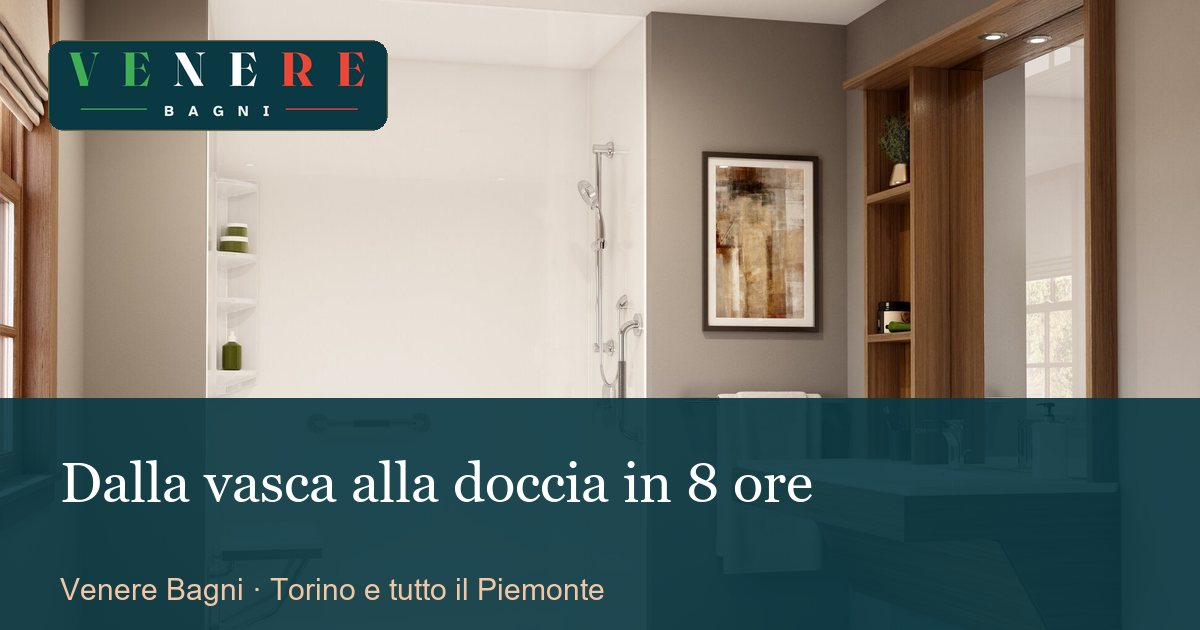
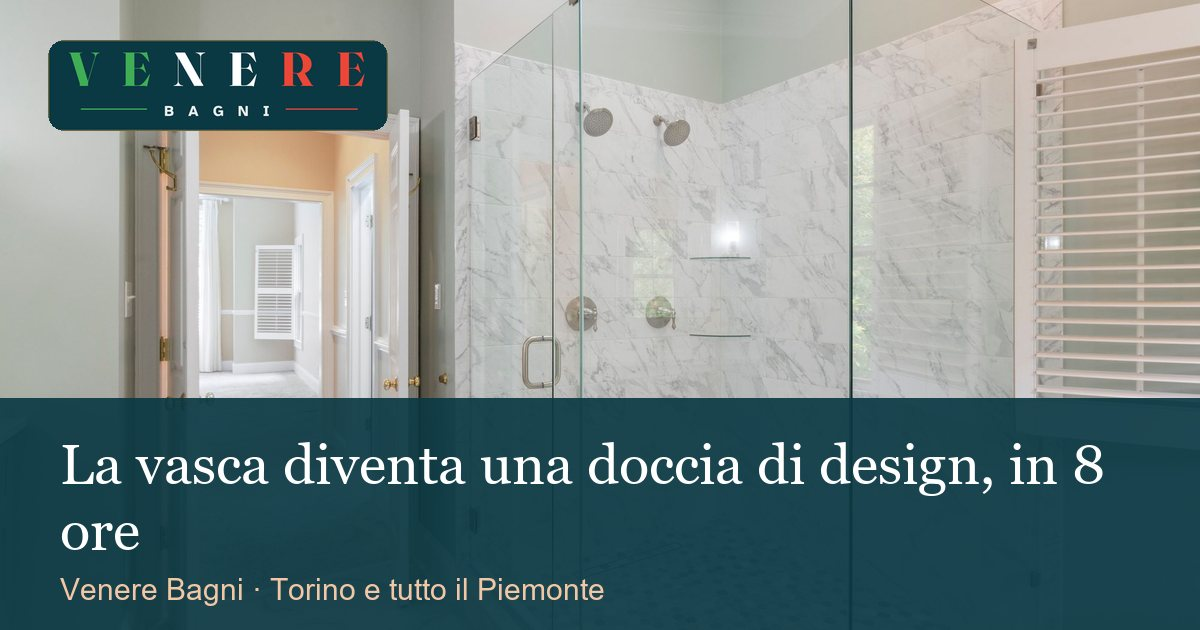
Reposition from safety to bathroom design: new hero and copy, Stile e finiture section with placeholder photos, form asks style instead of who, finishes FAQ group, province intros rebalanced; safety kept on its own pages

diff --git a/src/data/zone-pages.ts b/src/data/zone-pages.ts
@@ -40,7 +40,7 @@ export const zonePages: ZonePage[] = [
     lead: 'Lavoriamo in città e in tutta la provincia. Veniamo a misurare il bagno senza costi, ti lasciamo il prezzo scritto e poi, in 8 ore di lavoro, passi dalla vasca alla doccia finita.',
     introTitle: 'Il bagno a Torino',
     intro: [
-      'A Torino molti appartamenti sono in condomini degli anni ’60 e ’70, dove la vasca misura spesso circa 170 cm ed è l’unico posto per lavarsi. Con l’età scavalcarla diventa difficile. Se al suo posto mettiamo una doccia nello stesso spazio, il resto del bagno non va rifatto.',
+      'A Torino molti appartamenti sono in condomini degli anni ’60 e ’70, dove la vasca misura spesso circa 170 cm ed è l’unico posto per lavarsi. Spesso il bagno è ancora quello originale, con le piastrelle dell’epoca. Se al posto della vasca mettiamo una doccia con pareti in gres nuovo, il bagno cambia faccia senza rifarlo tutto.',
       'Lavoriamo anche nelle case singole e nelle villette dell’area metropolitana, allo stesso modo: il piatto doccia va dove c’era la vasca.',
     ],
     realData: '[SERVE DATO REALE: indirizzo della sede e distanza dalla città, se rilevante]',
@@ -80,7 +80,7 @@ export const zonePages: ZonePage[] = [
     intro: [
       // tuttitalia.it/piemonte/provincia-di-cuneo/ : 6.894,82 km², the largest province of Piemonte.
       'Quella di Cuneo è la provincia più estesa del Piemonte, quasi 6.900 km² tra le valli alpine, la pianura di Fossano e Savigliano e le colline di Langhe e Roero. Fuori dai centri più grandi ci sono tante case singole, bifamiliari e cascine. Per noi il lavoro cambia poco: togliamo la vasca e nello stesso spazio montiamo una doccia comoda, senza rifare il bagno.',
-      'Se cerchi una vasca con sportello o una doccia a filo pavimento per un genitore anziano e abiti lontano, al sopralluogo gratuito puoi collegarti per telefono.',
+      'Nelle case di campagna i bagni sono spesso grandi: c’è spazio per una doccia walk-in con vetro fisso, o per una vasca con sportello se la vasca la vuoi tenere.',
     ],
     realData: '[SERVE DATO REALE: come serviamo Cuneo, da quale sede, tempi di trasferta]',
     facts: [
@@ -227,7 +227,7 @@ export const zonePages: ZonePage[] = [
     introTitle: 'Il bagno nel Biellese',
     intro: [
       // [ISTAT] BI 51.066 / 168.328 = 30,3%, highest of the 8 provinces; Piemonte 26,9%.
-      'Il Biellese è la provincia più anziana del Piemonte. Al 1° gennaio 2025 il 30,3% dei residenti aveva 65 anni o più, quasi uno su tre, contro il 26,9% della media regionale. Per chi a quell’età usa ancora la vasca, al suo posto montiamo una doccia con seggiolino e maniglione, nello stesso spazio.',
+      'Il Biellese è la provincia più anziana del Piemonte. Al 1° gennaio 2025 il 30,3% dei residenti aveva 65 anni o più, quasi uno su tre, contro il 26,9% della media regionale. Per chi usa ancora la vasca, al suo posto montiamo una doccia con il piatto a filo pavimento, e se serve con seggiolino e maniglione, scelti nello stesso stile del bagno.',
       // Valdilana: L.R. Piemonte 21 dicembre 2018 n. 29, comune dal 1° gennaio 2019 (tuttitalia.it/variazioni-amministrative/nuovo-comune-di-valdilana/).
       'Fuori città molti abitano in paesi di valle: la Valle Cervo, la Valle Elvo, la Valsessera e la zona di Valdilana, il comune nato nel 2019 da Mosso, Soprana, Trivero e Valle Mosso, dove ci sono ancora i lanifici. Per portare via la vasca e scaricare il materiale [DA CONFERMARE: cosa serve davanti a casa per il furgone].',
     ],
@@ -267,7 +267,7 @@ export const zonePages: ZonePage[] = [
     introTitle: 'Il bagno nel Vercellese e in Valsesia',
     intro: [
       'La provincia di Vercelli va dalla pianura del riso al Monte Rosa. Intorno al capoluogo, a Santhià e a Trino ci sono paesi di pianura e cascine. A nord, lungo il Sesia, la Valsesia sale da Borgosesia e Varallo fino ad Alagna.',
-      'Che la casa sia in città, in una cascina o in un paese della valle, al posto della vasca va la doccia, con seggiolino e maniglione se servono. Cambiano i tempi di trasferta, e te li diciamo prima del sopralluogo.',
+      'Che la casa sia in città, in una cascina o in un paese della valle, al posto della vasca va una doccia nuova, con le pareti nel gres che scegli. Cambiano i tempi di trasferta, e te li diciamo prima del sopralluogo.',
     ],
     realData: '[SERVE DATO REALE: come serviamo Vercelli e la Valsesia, da quale sede, tempi di trasferta]',
     facts: [

diff --git a/src/data/faq.ts b/src/data/faq.ts
@@ -10,6 +10,11 @@ export const faqGroups: { id: string; title: string; items: Faq[] }[] = [
     { q: 'Si può fare in un condominio?', a: 'Sì. Il lavoro riguarda solo l’interno del tuo appartamento. Se serve, Venere Bagni avvisa l’amministratore, e durante il lavoro protegge scale e ascensore.' },
     { q: 'Cosa succede ai miei mobili e ai miei pavimenti?', a: 'Venere Bagni copre i pavimenti con teli e cartoni dalla porta di casa fino al bagno. A te chiediamo solo di togliere le tue cose dal bagno e di liberare il corridoio. A fine lavoro puliamo e portiamo via le macerie.' },
   ] },
+  { id: 'stile', title: 'Stile e finiture', items: [
+    { q: 'Posso scegliere colori e finiture?', a: 'Sì, e conviene sceglierle guardando i campioni nel tuo bagno, con la luce di casa tua. Il gres per le pareti c’è effetto marmo, pietra, legno o in tinta unita; il piatto in più colori, a filo pavimento o con bordo basso; il box trasparente, satinato o con profili neri; la rubinetteria cromata o nera opaca [DA CONFERMARE: finiture del catalogo]. Se in casa serve anche un maniglione o un seggiolino, lo scegliamo nello stesso stile.' },
+    { q: 'Il gres nuovo si abbina al resto del bagno?', a: 'È il motivo per cui lo scegli al sopralluogo e non da una foto. Il resto del bagno resta com’è, quindi si parte da lì: il tecnico di Venere Bagni guarda pavimento, mobili e sanitari e ti propone le finiture che ci stanno bene. Se preferisci un contrasto, per esempio pareti scure e piatto chiaro, si può fare.' },
+    { q: 'Il piatto a filo pavimento serve solo a chi fa fatica a camminare?', a: 'No. Oggi il piatto a filo pavimento si sceglie soprattutto per come appare: senza scalino il pavimento continua dentro la doccia e il bagno sembra più grande. Non c’è nemmeno il bordo dove si ferma lo sporco. Costa un po’ di più e lo scarico va verificato, per questo Venere Bagni lo controlla al sopralluogo.' },
+  ] },
   { id: 'prezzi', title: 'Prezzi', items: [
     { q: 'Quanto costa trasformare la vasca in doccia?', a: 'Il prezzo cambia da bagno a bagno: dipende dalla misura, dal tipo di piatto, dal gres e dal box. Per questo Venere Bagni non pubblica un listino e te lo scrive nel preventivo dopo il sopralluogo gratuito, a prezzo fisso. Il lavoro è chiavi in mano e comprende sempre vasca tolta e smaltita, impianto, massetto, piatto, box, rubinetteria, gres, finiture e materiali.' },
     { q: 'Il prezzo del preventivo può cambiare?', a: 'No. Venere Bagni lavora a prezzo fisso. Se salta fuori un problema nascosto, come uno scarico danneggiato, ti spieghiamo cosa succede e decidiamo insieme l’eventuale costo prima di intervenire.' },
@@ -17,7 +22,7 @@ export const faqGroups: { id: string; title: string; items: Faq[] }[] = [
   ] },
   { id: 'tempi', title: 'Tempi', items: [
     { q: 'Quanto dura il lavoro?', a: 'La trasformazione della vasca in doccia con Venere Bagni dura 8 ore ed è chiavi in mano. In quelle ore togliamo e smaltiamo la vasca, rifacciamo impianto e massetto, posiamo il piatto, rivestiamo le pareti in gres e montiamo box e rubinetteria, con i materiali che portiamo noi. La sera la doccia si può già usare. Se serve un piatto a filo pavimento con lo scarico da rifare, i tempi te li scriviamo nel preventivo.' },
-    { q: 'Tra la richiesta e il lavoro quanto devo aspettare?', a: 'Ti rispondiamo entro [X ORE] e il sopralluogo di solito si fa entro [X GIORNI]. Dal giorno in cui ordini il lavoro, firmando il preventivo, passano da 30 a 60 giorni prima che la squadra venga a casa tua. Se c’è fretta, per esempio dopo una caduta, diccelo subito al telefono.' },
+    { q: 'Tra la richiesta e il lavoro quanto devo aspettare?', a: 'Ti rispondiamo entro [X ORE] e il sopralluogo di solito si fa entro [X GIORNI]. Dal giorno in cui ordini il lavoro, firmando il preventivo, passano da 30 a 60 giorni prima che la squadra venga a casa tua. Se hai fretta, diccelo subito al telefono.' },
     { q: 'Posso usare il bagno durante il lavoro?', a: 'No, nelle 8 ore del lavoro il bagno resta chiuso. Se in casa ne hai un secondo, nessun problema. Se no, ne parliamo al sopralluogo e troviamo insieme la soluzione più comoda per te.' },
   ] },
   { id: 'sicurezza', title: 'Sicurezza', items: [

diff --git a/src/data/media.ts b/src/data/media.ts
@@ -1,7 +1,14 @@
 // PLACEHOLDER PHOTOS for the client preview only: taken from international market leaders' sites
 // (Bath Fitter, Re-Bath) as visual examples. They must ALL be replaced with Venere Bagni's own photos
 // before the site goes live. Alt texts describe what is visible, in Italian (screen readers, AI crawlers).
-import heroDoccia from '../assets/media/hero-doccia-sicura.jpg';
+import heroDoccia from '../assets/media/hero-doccia-design.jpg';
+import heroSicuro from '../assets/media/hero-doccia-sicura.jpg';
+// Design placeholders (Pexels, free licence; sources in _ba-sources.md). pietra and legno are 3D renders.
+import stileMarmo from '../assets/media/stile-marmo.jpg';
+import stilePietra from '../assets/media/stile-pietra.jpg';
+import stileLegno from '../assets/media/stile-legno.jpg';
+import stileMinimal from '../assets/media/stile-minimal.jpg';
+import docciaModerna from '../assets/media/doccia-moderna.jpg';
 import ba1p from '../assets/media/ba1-prima.jpg';
 import ba1d from '../assets/media/ba1-dopo.jpg';
 import ba2p from '../assets/media/ba2-prima.jpg';
@@ -24,7 +31,13 @@ import famiglia from '../assets/media/famiglia-bagno.jpg';
 export interface Img { src: ImageMetadata; alt: string }
 
 export const media: Record<string, Img> = {
-  hero: { src: heroDoccia, alt: 'Doccia bianca a filo pavimento con seggiolino ribaltabile, maniglione e soffione regolabile, al posto della vecchia vasca' },
+  hero: { src: heroDoccia, alt: 'Doccia in vetro con pareti in gres effetto marmo, pavimento a mosaico esagonale e soffione a pioggia' },
+  heroSicuro: { src: heroSicuro, alt: 'Doccia bianca a filo pavimento con seggiolino ribaltabile, maniglione e soffione regolabile, al posto della vecchia vasca' },
+  stileMarmo: { src: stileMarmo, alt: 'Doccia con pareti in gres effetto marmo bianco venato e rubinetteria nera opaca' },
+  stilePietra: { src: stilePietra, alt: 'Doccia walk-in con pareti effetto pietra grigia, vetro con profilo nero e rubinetteria nera' },
+  stileLegno: { src: stileLegno, alt: 'Doccia con parete in gres effetto legno, vetro con profilo nero e soffione a pioggia nero' },
+  stileMinimal: { src: stileMinimal, alt: 'Doccia minimal con lastre bianche di grande formato e colonna doccia nera opaca' },
+  docciaModerna: { src: docciaModerna, alt: 'Doccia in vetro con parete in piastrelle antracite lucide e rubinetteria nera opaca' },
   // Real before/after pairs (Re-Bath US gallery, placeholders only: replace with the client's own jobs).
   ba1p: { src: ba1p, alt: 'Prima: bagno con vasca da incasso, tenda doccia e piastrelle beige' },
   ba1d: { src: ba1d, alt: 'Dopo: stesso bagno con doccia a piatto basso, panca e rivestimento grigio' },

diff --git a/worker/index.js b/worker/index.js
@@ -1,7 +1,7 @@
 // Lead proxy for the Venere Bagni site (Cloudflare Worker, used once the site is on its own domain).
 // Static assets are served by Cloudflare; only /api/lead reaches this code (run_worker_first in wrangler.jsonc).
 //
-// POST /api/lead  {name, phone, email?, cap, intervento, per_chi, tempi, frenato, privacy_consent, marketing_consent, hp_url, utm_*, gclid, fbclid, ...}
+// POST /api/lead  {name, phone, email?, cap, intervento, stile, tempi, frenato, privacy_consent, marketing_consent, hp_url, utm_*, gclid, fbclid, ...}
 //   -> validates, then forwards to the Profilo CRM ingest endpoint (/api/leads/ingest/<token>).
 //
 // CRM CONNECTION: PLACEHOLDER until launch.
@@ -13,7 +13,7 @@ const CRM_ORIGIN_DEFAULT = 'https://crm.profilomarketing.it';
 // env.CRM_ORIGIN is honoured only for a local test server, never for another host.
 const crmOrigin = (env) => (/^http:\/\/(127\.0\.0\.1|localhost)(:\d+)?$/.test(env.CRM_ORIGIN || '') ? env.CRM_ORIGIN : CRM_ORIGIN_DEFAULT);
 const MAX_BODY = 8 * 1024;
-const TEXT = { name: 120, phone: 40, email: 200, cap: 5, intervento: 60, per_chi: 60, tempi: 60, frenato: 200, pagina: 200, landing_page: 200, referrer: 200, fuori_zona: 2 };
+const TEXT = { name: 120, phone: 40, email: 200, cap: 5, intervento: 60, stile: 60, tempi: 60, frenato: 200, pagina: 200, landing_page: 200, referrer: 200, fuori_zona: 2 };
 const ATTR = ['utm_source', 'utm_medium', 'utm_campaign', 'utm_content', 'utm_term', 'gclid', 'gbraid', 'wbraid', 'fbclid', 'msclkid', 'ttclid', 'campaign_id', 'adset_id', 'ad_id', 'fbp', 'fbc'];
 
 const json = (status, body, extra = {}) =>

diff --git a/src/scripts/main.js b/src/scripts/main.js
@@ -101,7 +101,7 @@ $$('[data-lead-form]').forEach((form) => {
     bars.forEach((b, i) => b.classList.toggle('is-on', i < n));
     label.textContent = `Passo ${n} di 3 · ${labels[n - 1]}`;
     say('');
-    if (n === 3 && recap) recap.textContent = [f.intervento.value, f.per_chi.value, f.tempi.value].filter(Boolean).join(' · ');
+    if (n === 3 && recap) recap.textContent = [f.intervento.value, f.stile.value, f.tempi.value].filter(Boolean).join(' · ');
     const first = $(`[data-step="${n}"] input:not([type=hidden])`, form);
     first?.focus({ preventScroll: true });
     if (form.getBoundingClientRect().top < 0) form.scrollIntoView({ behavior: 'smooth', block: 'start' });
@@ -117,7 +117,7 @@ $$('[data-lead-form]').forEach((form) => {
       return false;
     }
     if (n === 2) {
-      if (!f.per_chi.value || !f.tempi.value) { say('Rispondi alle prime due domande, la terza è facoltativa.', 'err'); return false; }
+      if (!f.stile.value || !f.tempi.value) { say('Rispondi alle prime due domande, la terza è facoltativa.', 'err'); return false; }
       return true;
     }
     const cap = f.cap.value.trim();
@@ -170,7 +170,7 @@ $$('[data-lead-form]').forEach((form) => {
       cap,
       fuori_zona: inArea(cap) ? 'no' : 'si',
       intervento: f.intervento.value,
-      per_chi: f.per_chi.value,
+      stile: f.stile.value,
       tempi: f.tempi.value,
       frenato: frenato().join(', '),
       privacy_consent: true,

diff --git a/src/styles/global.css b/src/styles/global.css
@@ -604,3 +604,17 @@ h2.h3 { font-size: clamp(1.3rem, 1.15rem + .6vw, 1.55rem); }
 .lf__head .lf__progress li { background: rgb(255 255 255 / .2); }
 .lf__head .lf__progress li.is-on { background: #ef8350; }
 .lf__head .lf__step-label { color: #ef8350; }
+
+/* Stile e finiture (home, 2026-11-10) */
+.styles { display: grid; grid-template-columns: repeat(4, 1fr); gap: 20px; margin: 0; }
+.style { margin: 0; }
+.style img { width: 100%; aspect-ratio: 4 / 5; object-fit: cover; border-radius: var(--r); display: block; }
+.style figcaption { padding: 14px 2px 0; }
+.style b { display: block; font: 600 1.3rem/1.2 var(--serif); color: #fff; margin-bottom: 4px; }
+.style span { display: block; font-size: 1.02rem; line-height: 1.45; color: #d3e2e5; }
+.parts { display: grid; grid-template-columns: repeat(3, 1fr); gap: 24px; margin-top: 44px; padding-top: 28px; border-top: 1px solid rgb(255 255 255 / .18); }
+.parts h3 { font-size: 1.25rem; margin-bottom: 6px; }
+.parts p { margin: 0; color: #d3e2e5; }
+.styles-note { margin-top: 28px; }
+@media (max-width: 960px) { .styles { grid-template-columns: 1fr 1fr; } .parts { grid-template-columns: 1fr; gap: 18px; } }
+@media (max-width: 480px) { .style img { aspect-ratio: 4 / 3; } }

diff --git a/src/data/site.ts b/src/data/site.ts
@@ -52,7 +52,7 @@ export const site = {
   // Default <title> and meta description (home page sets its own; these are the fallback).
   title: 'Vasca in doccia a Torino e in Piemonte | Venere Bagni',
   description:
-    'Togliamo la vasca e montiamo una doccia sicura in 8 ore, chiavi in mano, a Torino e in tutto il Piemonte. Sopralluogo gratuito e preventivo a prezzo fisso.',
+    'Togliamo la vasca e montiamo una doccia nuova, con le finiture che scegli tu, in 8 ore, chiavi in mano, a Torino e in tutto il Piemonte. Sopralluogo gratuito e preventivo a prezzo fisso.',
 
   // ---- AREA SERVED ---------------------------------------------------------------------------------
   // Main area: Torino e provincia. The other Piemonte provinces are served too (Denis, 2026-11-10: keep them).

diff --git a/src/data/guides.ts b/src/data/guides.ts
@@ -22,7 +22,7 @@ export const guides = [
     h1: 'Doccia a norma DM 236: cosa serve per la detrazione',
     card: 'Quando la doccia al posto della vasca rientra nella detrazione del 50% o del 36%, e cosa chiede il decreto.',
     answer: 'Nel 2026 la doccia messa al posto della vasca può rientrare nella detrazione per ristrutturazione se rispetta il DM 236 del 1989: doccia a pavimento, sedile ribaltabile e doccia a telefono. Recuperi il 50% se è la casa dove abiti e ne sei proprietario, il 36% negli altri casi. Non servono un’età minima o una disabilità. [DA CONFERMARE CON IL COMMERCIALISTA]',
-    img: 'hero',
+    img: 'heroSicuro',
     published: '2026-11-10',
   }),
   g({

diff --git a/scripts/make-og.py b/scripts/make-og.py
@@ -21,7 +21,7 @@ SAND = (242, 199, 166)
 SUB = "Venere Bagni · Torino e tutto il Piemonte"
 
 PHOTO = {
-    "hero": "hero-doccia-sicura.jpg", "solDoccia": "soluzione-doccia.jpg", "solSportello": "soluzione-sportello.jpg",
+    "hero": "hero-doccia-design.jpg", "heroSicuro": "hero-doccia-sicura.jpg", "solDoccia": "soluzione-doccia.jpg", "solSportello": "soluzione-sportello.jpg",
     "solSicuro": "soluzione-sicuro.jpg", "sopralluogo": "sopralluogo.jpg", "coppia": "coppia-bagno.jpg",
     "luminoso": "bagno-luminoso.jpg", "classico": "bagno-classico.jpg", "famiglia": "famiglia-bagno.jpg",
 }
@@ -33,10 +33,10 @@ ZONES = [
 ]
 # key, photo, title (keep it short: one or two lines at 56 px)
 PAGES = [
-    ("home", "hero", "Dalla vasca alla doccia in 8 ore"),
+    ("home", "hero", "La vasca diventa una doccia di design, in 8 ore"),
     ("vasca-in-doccia", "solDoccia", "Trasformazione vasca in doccia"),
     ("vasca-con-sportello", "solSportello", "Vasca con sportello: si entra senza scavalcare"),
-    ("bagno-sicuro", "hero", "Un bagno sicuro per te o per un tuo genitore"),
+    ("bagno-sicuro", "heroSicuro", "Un bagno sicuro per te o per un tuo genitore"),
     ("prezzi", "classico", "Quanto costa trasformare la vasca in doccia"),
     ("bonus-detrazioni", "luminoso", "Detrazioni per la doccia al posto della vasca nel 2026"),
     ("domande-frequenti", "sopralluogo", "Domande frequenti sulla vasca in doccia"),
@@ -44,7 +44,7 @@ PAGES = [
     ("chi-siamo", "sopralluogo", "Chi c’è dietro Venere Bagni"),
     ("zone", "coppia", "Partiamo da Torino, lavoriamo in tutto il Piemonte"),
     ("guide", "luminoso", "Guide per chi vuole togliere la vasca"),
-    ("guide-doccia-a-norma-dm-236-detrazione", "hero", "Doccia a norma DM 236: cosa serve per la detrazione"),
+    ("guide-doccia-a-norma-dm-236-detrazione", "heroSicuro", "Doccia a norma DM 236: cosa serve per la detrazione"),
     ("guide-piatto-doccia-filo-pavimento-o-ribassato", "solDoccia", "Piatto doccia filo pavimento o ribassato?"),
     ("guide-giorno-trasformazione-vasca-in-doccia", "coppia", "Il giorno della trasformazione, ora per ora"),
 ] + [(f"zone-{s}", p, f"Trasformazione vasca in doccia {at}") for s, at, p in ZONES]
